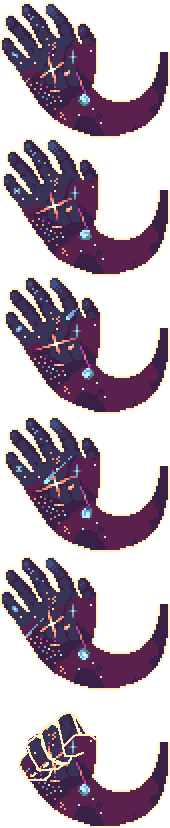
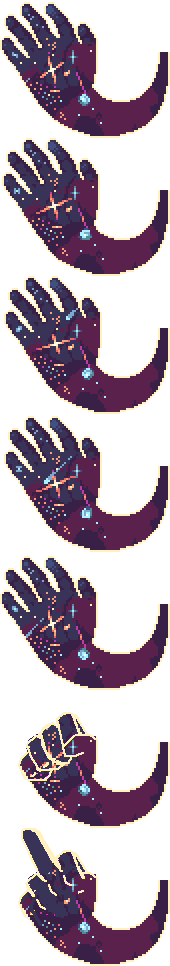
KS Gland rebalanced, EoC Insight effects, cosjel fixes, master mode drops updated added something for the worthy :>

diff --git a/Content/NPCs/Bosses/CosmicJellyfish.cs b/Content/NPCs/Bosses/CosmicJellyfish.cs
@@ -5,6 +5,7 @@ using ITD.Content.Items.Weapons.Mage;
 using ITD.Content.Items.Weapons.Melee;
 using ITD.Content.Items.Weapons.Ranger;
 using ITD.Content.Items.Weapons.Summoner;
+using ITD.Content.Projectiles.Friendly.Misc;
 using ITD.Content.Projectiles.Hostile;
 using ITD.Players;
 using ITD.Utilities;
@@ -77,7 +78,7 @@ namespace ITD.Content.NPCs.Bosses
             Slinging,
             DownToSize,
             VoidShard,
-            StarShard
+            StarShard,
         }
 
         private HandState handState = HandState.Waiting;
@@ -192,7 +193,7 @@ namespace ITD.Content.NPCs.Bosses
 
             Player player = Main.player[NPC.target];
 
-            if (player.dead)
+            if (player.dead || !player.active)
             {
                 //flee upwards
                 NPC.velocity.Y -= 0.04f;
@@ -232,9 +233,15 @@ namespace ITD.Content.NPCs.Bosses
                     if (Main.netMode != NetmodeID.MultiplayerClient)
                     {
                         //Explosion goes here
+                        int projID = Projectile.NewProjectile(NPC.GetSource_FromThis(), NPC.Center, Vector2.Zero, ModContent.ProjectileType<BlankExplosion>(), NPC.damage, 0, Main.myPlayer);
+                        Main.projectile[projID].scale = 3f;//300x300
+                        Main.projectile[projID].hostile = true;
+                        Main.projectile[projID].friendly = false;
+                        Main.projectile[projID].knockBack = 3f;
                     }
                     if (Main.netMode != NetmodeID.Server)//Drop some gore when changing phase
                     {
+
                         SecondStage = true;
                         NPC.localAI[0] = 0;
 
@@ -252,6 +259,7 @@ namespace ITD.Content.NPCs.Bosses
                         }
                         //Gore MUST goes here (else it will fuck up multiplayer)
                     }
+
                     Main.NewText("Fish Your Eyes", Color.Goldenrod);
                     NPC.netUpdate = true;
 
@@ -444,7 +452,7 @@ namespace ITD.Content.NPCs.Bosses
                 {
                     if (AI_State != MovementState.Suffocate)
                         AI_State = MovementState.Ram;
-                    if (NPC.localAI[0] > 2 && !SecondStage || NPC.localAI[0] > 5 && SecondStage)
+                    if (NPC.localAI[0] > 3 && !SecondStage || NPC.localAI[0] > 4 && SecondStage)
                     {
                         //can't believe i have to do this, since the checking doesn't even fucking work
                         NPC.ai[3]++;
@@ -522,7 +530,7 @@ namespace ITD.Content.NPCs.Bosses
                             }
                         }
                     }
-                    float suckDist = 40f * 16f; // 32 tiles
+/*                    float suckDist = 40f * 16f; // 32 tiles
                     foreach (var plr in Main.ActivePlayers)
                     {
                         float suckificationDist = Vector2.Distance(plr.Center, NPC.Center);
@@ -530,7 +538,7 @@ namespace ITD.Content.NPCs.Bosses
                         float suckPower = 0.3f;
                         if (Collision.CanHit(NPC.Center, 1, 1, plr.Center, 1, 1))
                             plr.velocity += (NPC.Center - plr.Center).SafeNormalize(Vector2.Zero) * suckPower * (ratio + 0.2f);
-                    }
+                    }*/
                 }
                 else
                 {
@@ -568,8 +576,8 @@ namespace ITD.Content.NPCs.Bosses
         int Timer2;//Again, hands must be handled seperately
 
         private void HandleHand(Player player)
-        {
-            if (hand != -1)
+        {  
+                if (hand != -1)
             {
                 Projectile projectile = Main.projectile[hand];
                 if (projectile.active && projectile.type == ModContent.ProjectileType<CosmicJellyfish_Hand>())
@@ -592,13 +600,21 @@ namespace ITD.Content.NPCs.Bosses
                             projectile.frame++;
                             if (projectile.frame >= 4)
                             {
-                                projectile.frame =0;
+
+                                projectile.frame = 0;
                             }
                         }
                     }
                     else
                     {
+                        if (Main.getGoodWorld)
+                        {
+                            projectile.frame = 6;
+                        }
+                        else
+                        {
                             projectile.frame = 5;
+                        }
                     }
                     switch (handState)
                     {
@@ -692,16 +708,16 @@ namespace ITD.Content.NPCs.Bosses
                             }
                             break;
                         case HandState.VoidShard:
-                            if (NPC.localAI[0]++>= 100)
+                            if (Timer++ >= 100)
                             {
-                                NPC.localAI[0] = 0;
+                                Timer = 0;
                                 if (NPC.localAI[2]++ >= 3)
                                 {
                                     NPC.ai[3]++;
                                     handState = HandState.DownToSize;
                                     NPC.localAI[2] = 0;
                                     NPC.localAI[1] = 0;
-                                    NPC.localAI[0] = 0;
+                                    Timer = 0;
                                 }
 
                                 SoundEngine.PlaySound(SoundID.Item20, projectile.Center);
@@ -794,7 +810,14 @@ namespace ITD.Content.NPCs.Bosses
                     }
                     else
                     {
+                        if (Main.getGoodWorld)
+                        {
+                            projectile2.frame = 6;
+                        }
+                        else
+                        {
                             projectile2.frame = 5;
+                        }
                     }
                     switch (handState2)
                     {
@@ -889,21 +912,27 @@ namespace ITD.Content.NPCs.Bosses
                             }
                             break;
                         case HandState.StarShard:
-                            if (NPC.localAI[0] >= 100)
+                            if (Timer2++ >= 100)
                             {
+                                Timer2 = 0;
                                 if (Main.netMode != NetmodeID.MultiplayerClient)
                                 {
                                     ParticleOrchestrator.RequestParticleSpawn(clientOnly: false, ParticleOrchestraType.Excalibur,new ParticleOrchestraSettings { PositionInWorld = projectile2.Center }, projectile2.owner);
-                                    Vector2 vel = projectile2.DirectionTo(player.Center) * 8f; ;
-                                    Projectile.NewProjectile(NPC.GetSource_FromThis(), projectile2.Center, vel,
-                                     ModContent.ProjectileType<CosmicVoidShard>(), NPC.damage, 0f, -1, 240, NPC.whoAmI);
+                                    Vector2 vel = projectile2.DirectionTo(player.Center) * 12f;
+                                    if (Main.expertMode || Main.masterMode)
+                                    {
+                                        vel = projectile2.DirectionTo(player.Center + player.velocity * 20f) * 12f;
+                                    }
+                                    int projID = Projectile.NewProjectile(NPC.GetSource_FromThis(), projectile2.Center, vel,
+                                     ProjectileID.FallingStar, NPC.damage, 0f, -1, 240, NPC.whoAmI);
+                                    Main.projectile[projID].friendly = false;
+                                    Main.projectile[projID].hostile = true;
                                 }
 
                             }
                             projectile2.Center = Vector2.Lerp(projectile2.Center, normalCenter, 0.3f);
 
                             break;
-
                     }
                     projectile2.rotation = MathHelper.Lerp(projectile2.rotation, targetRotation, 0.3f);
                     for (int i = 0; i < Main.maxProjectiles; i++)

diff --git a/Content/NPCs/Friendly/KSGlandNPC.cs b/Content/NPCs/Friendly/KSGlandNPC.cs
@@ -20,7 +20,9 @@ namespace ITD.Content.NPCs.Friendly
         public override void SetStaticDefaults()
         {
             Main.npcFrameCount[Type] = 3;
+            NPCID.Sets.DontDoHardmodeScaling[Type] = true;
             NPCID.Sets.ImmuneToAllBuffs[Type] = true;
+            NPCID.Sets.NeedsExpertScaling[Type] = true;
             //
             NPCID.Sets.NPCBestiaryDrawModifiers bestiaryData = new NPCID.Sets.NPCBestiaryDrawModifiers()
             {
@@ -33,8 +35,8 @@ namespace ITD.Content.NPCs.Friendly
             NPC.width = 40;
             NPC.height = 56;
             NPC.damage = 0;
-            NPC.defense = 10;
-            NPC.lifeMax = 200;
+            NPC.defense = 0;
+            NPC.lifeMax = 50;
             NPC.HitSound = SoundID.NPCHit1;
             NPC.DeathSound = SoundID.NPCDeath1;
             NPC.noGravity = true;
@@ -73,7 +75,7 @@ namespace ITD.Content.NPCs.Friendly
             }
             if (!player.GetModPlayer<KSGlandPlayer>().ksMasterAcc)
             {
-                player.GetModPlayer<KSGlandPlayer>().RegrowCD = 600;
+                player.GetModPlayer<KSGlandPlayer>().RegrowCD = 900;
                 NPC.checkDead();
                 NPC.life = 0;
             }
@@ -99,7 +101,7 @@ namespace ITD.Content.NPCs.Friendly
         }
         public override void OnSpawn(IEntitySource source)
         {
-            for (int i = 0; i < 8; i++)
+            for (int i = 0; i < 12; i++)
             {
                 Dust dust = Dust.NewDustDirect(NPC.Center, NPC.width, NPC.height, DustID.t_Slime, 0, 0f, 40, Color.LightSkyBlue, Main.rand.NextFloat(1f, 2f));
                 dust.velocity *= 2f;
@@ -110,7 +112,7 @@ namespace ITD.Content.NPCs.Friendly
         }
         public override void OnKill()
         {
-            for (int i = 0; i < 8; i++)
+            for (int i = 0; i < 12; i++)
             {
                 Dust dust = Dust.NewDustDirect(NPC.Center, NPC.width, NPC.height, DustID.t_Slime, 0, 0f, 40, Color.LightSkyBlue, Main.rand.NextFloat(1f, 2f));
                 dust.velocity *= 2f;
@@ -119,7 +121,7 @@ namespace ITD.Content.NPCs.Friendly
                 dust2.noGravity = true;
             }
             Player player = Main.player[(int)NPC.ai[0]];
-            player.GetModPlayer<KSGlandPlayer>().RegrowCD = 600;
+            player.GetModPlayer<KSGlandPlayer>().RegrowCD = 900;
         }
         public override void DrawBehind(int index)
         {
@@ -152,7 +154,7 @@ namespace ITD.Content.NPCs.Friendly
         {
             if (owner.dead || !owner.active)
             {
-                owner.GetModPlayer<KSGlandPlayer>().RegrowCD = 600;
+                owner.GetModPlayer<KSGlandPlayer>().RegrowCD = 900;
                 owner.GetModPlayer<KSGlandPlayer>().ksMasterAcc = false;
                 NPC.life = 0;
                 NPC.checkDead();

diff --git a/Content/NPCs/ITDGlobalNPC.cs b/Content/NPCs/ITDGlobalNPC.cs
@@ -11,6 +11,7 @@ using ITD.Content.Buffs.Debuffs;
 using ITD.Content.Items.Accessories.Defensive;
 using ITD.Content.Items.Accessories.Master;
 using ITD.Content.Items.Weapons.Melee.Snaptraps;
+using ITD.Content.Items.Other;
 
 namespace ITD.Content.NPCs
 {
@@ -84,7 +85,15 @@ namespace ITD.Content.NPCs
             {
                 npcLoot.Add(ItemDropRule.Common(ModContent.ItemType<DreadShell>(), 10));
             }
-			if (npc.type == NPCID.EaterofWorldsHead || npc.type == NPCID.EaterofWorldsBody || npc.type == NPCID.EaterofWorldsTail)
+            if (npc.type == NPCID.KingSlime)
+            {
+                npcLoot.Add(ItemDropRule.MasterModeDropOnAllPlayers(ModContent.ItemType<KSGland>()));
+            }
+            if (npc.type == NPCID.EyeofCthulhu)
+            {
+                npcLoot.Add(ItemDropRule.MasterModeDropOnAllPlayers(ModContent.ItemType<EoCInsight>()));
+            }
+            if (npc.type == NPCID.EaterofWorldsHead || npc.type == NPCID.EaterofWorldsBody || npc.type == NPCID.EaterofWorldsTail)
             {
 				LeadingConditionRule IsABoss = new LeadingConditionRule(new Conditions.LegacyHack_IsABoss());
 				IsABoss.OnSuccess(ItemDropRule.MasterModeDropOnAllPlayers(ModContent.ItemType<EoWTail>()));

diff --git a/Content/NPCs/Bosses/CosmicJellyfishMini.cs b/Content/NPCs/Bosses/CosmicJellyfishMini.cs
@@ -36,8 +36,8 @@ namespace ITD.Content.NPCs.Bosses
             NPC.damage = 10;
             NPC.defense = 0;
             NPC.lifeMax = 50;
-            NPC.HitSound = SoundID.NPCHit4;
-            NPC.DeathSound = SoundID.NPCDeath14;
+            NPC.HitSound = SoundID.NPCHit1;
+            NPC.DeathSound = SoundID.NPCDeath1;
             NPC.noGravity = true;
             NPC.noTileCollide = true;
             NPC.knockBackResist = 0.3f;
@@ -103,7 +103,7 @@ namespace ITD.Content.NPCs.Bosses
             {
                 Dash(1, 10, 18, 24, 1);
             }
-            float maxRotation = MathHelper.Pi / 6;
+            float maxRotation = MathHelper.Pi / 3;
             float rotationFactor = MathHelper.Clamp(NPC.velocity.X / 8f, -1f, 1f);
 
             rotation = rotationFactor * maxRotation;
@@ -200,7 +200,7 @@ namespace ITD.Content.NPCs.Bosses
             int startFrame = 0;
             int finalFrame = 4;
 
-            int frameSpeed = 12;
+            int frameSpeed = 8;
             NPC.frameCounter += 1f;
             if (NPC.frameCounter > frameSpeed)
             {

diff --git a/Content/Items/Other/EoCInsight.cs b/Content/Items/Other/EoCInsight.cs
@@ -7,6 +7,7 @@ using Terraria.DataStructures;
 using System;
 using ITD.Systems;
 using Terraria.GameContent;
+using Microsoft.Xna.Framework.Graphics;
 namespace ITD.Content.Items.Other
 {
     public class EoCInsight : ModItem
@@ -22,7 +23,11 @@ namespace ITD.Content.Items.Other
             Item.Size = new Vector2(30);
             Item.master = true;
         }
-
+        public override void PostUpdate()
+        {
+            Item.Center += Main.rand.NextVector2Circular(1, 1);
+            Lighting.AddLight(Item.Center, Color.Turquoise.ToVector3() * 0.5f);
+        }
         public override void UpdateInventory(Player player)
         {
             if (Item.favorited)
@@ -36,7 +41,11 @@ namespace ITD.Content.Items.Other
                 player.GetModPlayer<InsightedPlayer>().CorporateInsight = false;
             }
             }
+        public override Color? GetAlpha(Color lightColor)
+        {
+            return Color.White;
         }
+    }
     public class InsightedPlayer : ModPlayer
     {
         public bool CorporateInsight;

diff --git a/Content/Projectiles/Hostile/CosmicJellyfish_Hand.cs b/Content/Projectiles/Hostile/CosmicJellyfish_Hand.cs
@@ -17,7 +17,7 @@ namespace ITD.Content.Projectiles.Hostile
         {
             ProjectileID.Sets.TrailCacheLength[Projectile.type] = 5; // The length of old position to be recorded
             ProjectileID.Sets.TrailingMode[Projectile.type] = 2; // The recording mode
-            Main.projFrames[Projectile.type] = 6;
+            Main.projFrames[Projectile.type] = 7;//I'm very mature
         }
         public override void SetDefaults()
         {
